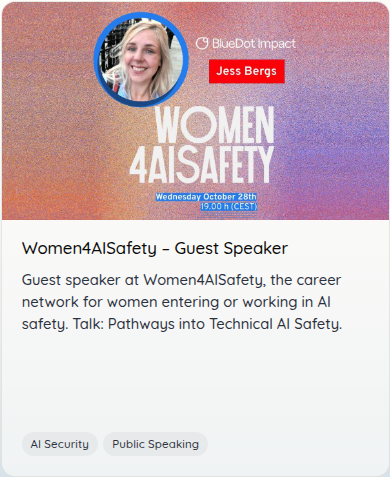
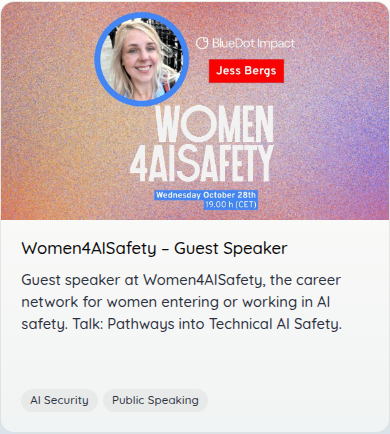
content: Women4AISafety tile uses the event template's own gradient background (#76)
Rebuilds the tile from the organiser's deck template instead of a
screenshot of the LinkedIn post: the template's 1920x1080 speckled
gradient is the 16:9 background, unstretched, and the portrait, logos,
name badge, wordmark and date lines are lifted off the square cover and
placed on it with the same margins as before. No more synthesised
background extension at the sides.

make_tile_from_template.py renders the cover with LibreOffice on white
and on black and takes the difference as alpha; it reconstructs the
portrait's circular crop and the blue date highlights, which LibreOffice
does not draw from the Google Slides export. The template itself stays
outside the repo. Candidate C is the live tile; A and B are kept for
comparison. Screenshot of the card refreshed.

diff --git a/docs/assets/women4aisafety-tile-candidates/make_tile_from_template.py b/docs/assets/women4aisafety-tile-candidates/make_tile_from_template.py
@@ -1,0 +1,216 @@
+#!/usr/bin/env python3
+"""Build the Women4AISafety tile from the organiser's deck template.
+
+usage: uv run --with pillow --with numpy python -I make_tile_from_template.py <template.odp>
+
+The template's cover slide is the square event graphic: a 1920x1080 speckled
+gradient PNG stretched onto the square as the page background, with the
+portrait in its blue disc, the BlueDot Impact logo, the name badge, the
+WOMEN4AISAFETY wordmark and the date lines as separate shapes on top. The tile
+is 16:9, so the gradient is used unstretched as the tile background and the
+shapes are lifted off the square and placed on it.
+
+To lift them, the cover is rendered twice with LibreOffice, on a flat white and
+on a flat black page background; the difference between the two renders gives
+the exact alpha of every shape, anti-aliased edges included. Two things the
+Google Slides export carries are not drawn by LibreOffice, so they are
+reconstructed: the portrait's circular crop (the square image frame becomes an
+ellipse filled with the portrait) and the blue highlights behind the date
+lines (painted into the lifted layer around the rendered text). The purple
+base strip is dropped, as in candidate A.
+
+The lifted layer is scaled so the blue disc sits MARGIN px below the top edge
+and the date highlight MARGIN px above the bottom edge, and the square's
+centre sits on the tile's centre. The gradient's grain is finer than JPEG
+can keep within SIZE_CAP at a sane quality, so it is softened by BG_SOFTEN px
+after downsampling; the speckle and the gradient both survive.
+
+Needs `soffice` and `pdftoppm` on PATH. Writes C-template-background.jpg here
+and the live tile to public/images/women4aisafety-2026.jpg. The template is
+not part of the repo.
+"""
+import re
+import subprocess
+import sys
+import tempfile
+import zipfile
+from pathlib import Path
+
+import numpy as np
+from PIL import Image, ImageFilter
+
+HERE = Path(__file__).resolve().parent
+OUT_W, OUT_H = 1200, 675
+SIZE_CAP = 150_000
+MARGIN = 31  # tile rows above the blue disc and below the date highlight (as in candidate A)
+RENDER_DPI = 144  # the 31.75 cm square renders at 1800 px
+HILITE = (0x42, 0x85, 0xF4)  # the blue of the disc, used for the date highlights
+HILITE_PAD_X, HILITE_PAD_Y = 16, 13  # highlight padding around the date text, in render px
+BG_SOFTEN = 0.8  # Gaussian radius on the downsampled gradient; its grain is too fine to fit SIZE_CAP unsoftened
+LIVE = "C-template-background.jpg"
+
+
+def save_capped(img, path, cap=SIZE_CAP):
+    q = 88
+    for q in range(88, 50, -2):
+        img.save(path, "JPEG", quality=q, optimize=True, progressive=True)
+        if path.stat().st_size <= cap:
+            break
+    print(f"{path.name}: {path.stat().st_size // 1000} KB at quality {q}")
+
+
+def keyed_copy(src_dir, out_odp, colour):
+    """Write a copy of the unpacked template whose cover has a flat `colour` background,
+    a circular portrait and no base strip."""
+    styles = (src_dir / "styles.xml").read_text(encoding="utf-8")
+    content = (src_dir / "content.xml").read_text(encoding="utf-8")
+    page_w = float(re.search(r'fo:page-width="([\d.]+)cm"', styles.split("<style:page-layout ")[-1]).group(1))
+    page = re.search(r"<draw:page .*?</draw:page>", content, flags=re.S).group(0)
+    style = re.search(r'draw:style-name="(dp\d+)"', page).group(1)
+
+    keyed = re.sub(
+        rf'(<style:style style:name="{style}"[^>]*>.*?)draw:fill="bitmap" draw:fill-image-name="[^"]*" style:repeat="stretch"',
+        rf'\1draw:fill="solid" draw:fill-color="{colour}"', content, count=1, flags=re.S)
+    assert keyed != content, "cover background style not found"
+
+    def drop_strip(m):  # full-width shapes are the base strip
+        w = float(re.search(r'svg:width="([\d.]+)cm"', m.group(0)).group(1))
+        return "" if w >= page_w - 0.5 else m.group(0)
+    new_page = re.sub(r"<draw:custom-shape .*?</draw:custom-shape>", drop_strip, page, flags=re.S)
+
+    # The portrait: a square image frame in the export, a circle in the original. Replace the frame
+    # with an ellipse of the same box, filled with the image (clipped to the ellipse).
+    photo = re.search(r'<draw:frame [^>]*>\s*<draw:image xlink:href="(Pictures/[^"]+\.jpe?g)".*?</draw:frame>',
+                      new_page, flags=re.S)
+    assert photo, "portrait frame not found"
+    geo = " ".join(re.findall(r'svg:(?:width|height|x|y)="[^"]+"', photo.group(0)))
+    new_page = new_page.replace(photo.group(0),
+                                f'<draw:ellipse draw:style-name="tilePhoto" draw:layer="layout" {geo}><text:p/></draw:ellipse>')
+    keyed = keyed.replace(page, new_page)
+    keyed = keyed.replace("</office:automatic-styles>",
+                          '<style:style style:name="tilePhoto" style:family="graphic"><style:graphic-properties '
+                          'draw:stroke="none" draw:fill="bitmap" draw:fill-image-name="tilePortrait" style:repeat="stretch"/>'
+                          "</style:style></office:automatic-styles>", 1)
+    styles = styles.replace("<draw:fill-image ",
+                            f'<draw:fill-image draw:name="tilePortrait" xlink:href="{photo.group(1)}" xlink:type="simple" '
+                            'xlink:show="embed" xlink:actuate="onLoad"/><draw:fill-image ', 1)
+
+    with zipfile.ZipFile(out_odp, "w") as z:
+        z.write(src_dir / "mimetype", "mimetype", compress_type=zipfile.ZIP_STORED)
+        for p in sorted(src_dir.rglob("*")):
+            rel = p.relative_to(src_dir).as_posix()
+            if p.is_dir() or rel == "mimetype":
+                continue
+            if rel == "content.xml":
+                z.writestr(rel, keyed, compress_type=zipfile.ZIP_DEFLATED)
+            elif rel == "styles.xml":
+                z.writestr(rel, styles, compress_type=zipfile.ZIP_DEFLATED)
+            else:
+                z.write(p, rel, compress_type=zipfile.ZIP_DEFLATED)
+
+
+def render_cover(odp, work):
+    """Rasterise the first slide of `odp` with LibreOffice; returns an RGB image."""
+    profile = work / "lo-profile"
+    subprocess.run(["soffice", "--headless", f"-env:UserInstallation={profile.as_uri()}",
+                    "--convert-to", "pdf", "--outdir", str(work), str(odp)],
+                   check=True, capture_output=True, timeout=180)
+    pdf = work / (odp.stem + ".pdf")
+    subprocess.run(["pdftoppm", "-r", str(RENDER_DPI), "-f", "1", "-l", "1", "-png", str(pdf), str(work / odp.stem)],
+                   check=True, capture_output=True, timeout=120)
+    png = next(work.glob(odp.stem + "-*.png"))
+    return Image.open(png).convert("RGB")
+
+
+def lift_layer(on_white, on_black):
+    """RGBA array of the shapes: alpha from the white/black difference, colour un-premultiplied from the black render."""
+    w = np.asarray(on_white, dtype=np.float32)
+    b = np.asarray(on_black, dtype=np.float32)
+    alpha = np.clip(1.0 - (w - b).mean(axis=2) / 255.0, 0.0, 1.0)
+    safe = np.where(alpha > 1e-3, alpha, 1.0)[..., None]
+    colour = np.clip(b / safe, 0, 255)
+    colour[alpha < 1e-3] = 0
+    return np.dstack([colour, alpha[..., None] * 255.0])
+
+
+def date_lines(rgba, y_from):
+    """Row runs of the date lines: the text runs below `y_from`, each as (top, bottom, left, right)."""
+    present = rgba[..., 3] > 8
+    rows = present[y_from:].any(axis=1)
+    runs, start = [], None
+    for i, r in enumerate(rows):
+        if r and start is None:
+            start = i
+        elif not r and start is not None:
+            runs.append((start, i))
+            start = None
+    if start is not None:
+        runs.append((start, len(rows)))
+    out = []
+    for a, b in runs:
+        cols = np.where(present[y_from + a:y_from + b].any(axis=0))[0]
+        out.append((y_from + a, y_from + b, int(cols[0]), int(cols[-1]) + 1))
+    return out
+
+
+def paint_highlights(rgba, lines):
+    """Solid HILITE boxes behind each date line: right-aligned to the longest line, touching each other."""
+    right = max(r for _, _, _, r in lines) + HILITE_PAD_X
+    edges = [lines[0][0] - HILITE_PAD_Y]
+    for (_, b0, _, _), (t1, _, _, _) in zip(lines, lines[1:]):
+        edges.append((b0 + t1) // 2)
+    edges.append(lines[-1][1] + HILITE_PAD_Y)
+    blue = np.array(HILITE, dtype=np.float32)
+    for (y0, y1), (_, _, left, _) in zip(zip(edges, edges[1:]), lines):
+        box = rgba[y0:y1, left - HILITE_PAD_X:right]
+        a = box[..., 3:4] / 255.0
+        box[..., :3] = box[..., :3] * a + blue * (1.0 - a)
+        box[..., 3] = 255.0
+    return rgba
+
+
+def main():
+    template = Path(sys.argv[1]).resolve()
+    with tempfile.TemporaryDirectory() as tmp:
+        work = Path(tmp)
+        src = work / "template"
+        with zipfile.ZipFile(template) as z:
+            z.extractall(src)
+        styles = (src / "styles.xml").read_text(encoding="utf-8")
+        bg_name = re.search(r'<draw:fill-image [^>]*xlink:href="(Pictures/[^"]+)"', styles).group(1)
+        background = (Image.open(src / bg_name).convert("RGB").resize((OUT_W, OUT_H), Image.LANCZOS)
+                      .filter(ImageFilter.GaussianBlur(BG_SOFTEN)))
+        print(f"background {bg_name} -> {OUT_W}x{OUT_H}")
+
+        renders = {}
+        for name, colour in (("white", "#ffffff"), ("black", "#000000")):
+            keyed_copy(src, work / f"{name}.odp", colour)
+            renders[name] = render_cover(work / f"{name}.odp", work)
+    rgba = lift_layer(renders["white"], renders["black"])
+    side = rgba.shape[0]
+
+    # The date lines are the shape runs in the bottom fifth, below the wordmark.
+    lines = [ln for ln in date_lines(rgba, int(side * 0.8)) if ln[1] - ln[0] > 10][-2:]
+    assert len(lines) == 2, f"expected two date lines, found {lines}"
+    print("date lines at rows", [(t, b) for t, b, _, _ in lines])
+    rgba = paint_highlights(rgba, lines)
+    layer = Image.fromarray(rgba.astype(np.uint8), "RGBA")
+
+    alpha = rgba[..., 3]
+    rows = np.where(alpha.max(axis=1) > 8)[0]
+    top, bottom = int(rows[0]), int(rows[-1]) + 1
+    scale = (OUT_H - 2 * MARGIN) / (bottom - top)
+    size = (round(layer.width * scale), round(layer.height * scale))
+    layer = layer.resize(size, Image.LANCZOS)
+    x = round(OUT_W / 2 - size[0] / 2)
+    y = round(MARGIN - top * scale)
+    print(f"shapes span rows {top}-{bottom} of {side}; scale {scale:.4f}; placed at ({x}, {y})")
+
+    tile = background.copy()
+    tile.paste(layer, (x, y), layer)
+    save_capped(tile, HERE / LIVE)
+    save_capped(tile, HERE.parents[2] / "public/images/women4aisafety-2026.jpg")
+
+
+if __name__ == "__main__":
+    main()

diff --git a/docs/assets/women4aisafety-tile-candidates/README.md b/docs/assets/women4aisafety-tile-candidates/README.md
@@ -1,31 +1,46 @@
 # Women4AISafety tile — candidates
 
-The live tile (`public/images/women4aisafety-2026.jpg`) uses variant **A**: the
-event graphic from the Women4AISafety LinkedIn post (28 October 2026 online
-session) with its speckled gradient background extended to fill 16:9. The
-purple base strip is dropped, and the content gets equal background margins:
-the distance from the portrait ring to the top edge equals the distance from
-the date line to the bottom edge.
+The live tile (`public/images/women4aisafety-2026.jpg`) is candidate **C**: the
+event graphic rebuilt from the organiser's deck template, so that the tile's
+16:9 background is the template's own 1920x1080 speckled gradient rather than
+an extension synthesised from the square graphic. The portrait in its blue
+disc, the BlueDot Impact logo, the name badge, the WOMEN4AISAFETY wordmark and
+the date lines are lifted off the template's square cover and placed on that
+background with the same margins as candidate A: equal distance from the disc
+to the top edge and from the date line to the bottom edge, the purple base
+strip dropped.
 
-The source graphic is square. Sideways, the extension copies random pixels
-from content-free slivers at the left and right edges (keeping the top-bottom
-gradient); above and below, from content-free bands at the top and just under
-the date line (keeping the left-right gradient). Each copied pixel comes from
-within a few rows or columns of its own position, so there is no seam or
-banding. Earlier variants that put the W4AIS wordmark on a cream panel beside
-the graphic were dropped: the wordmark appeared twice.
+The template is a Google Slides export, and two of its features are not drawn
+by LibreOffice, which `make_tile_from_template.py` uses to render the cover:
+the portrait's circular crop and the blue highlights behind the date lines.
+The script reconstructs both (an ellipse filled with the portrait; highlight
+boxes painted around the rendered text). The cover is rendered on a white and
+on a black page background and the difference gives the exact alpha of every
+shape, so the lift has no fringes. The gradient's grain is finer than JPEG can
+keep under the size cap, so the downsampled background is softened by 0.8 px.
+
+Candidates A and B were built earlier from a screenshot of the LinkedIn post
+by `make_tiles.py`, which extends the square graphic's background sideways and
+vertically by copying content-free blocks of it. They are kept for comparison.
 
 ## The candidates (all 1200x675, capped at 150 KB)
 
-- `A-no-strip.jpg` — **live tile.** No purple strip, equal top and bottom margins
-- `B-strip-spaced.jpg` — purple strip kept, with extra background between the date line and the strip
+- `C-template-background.jpg` — **live tile.** Template background, lifted shapes
+- `A-no-strip.jpg` — synthesised background, no purple strip, equal top and bottom margins
+- `B-strip-spaced.jpg` — synthesised background, purple strip kept, extra background between the date line and the strip
 
 ## Regenerating
 
 ```bash
+# C (live): from the organiser's deck template, which is not part of the repo
+uv run --with pillow --with numpy python -I make_tile_from_template.py <template.odp>
+
+# A and B: from a screenshot of the LinkedIn post
 uv run --with pillow python -I make_tiles.py <screenshot-of-the-linkedin-post.png>
 ```
 
-`GRAPHIC` in the script is the graphic's box inside the 1142x1432 screenshot;
-`GAP` and `STRIP_GAP` set the margins. The ring, the date line and the strip
-are located automatically. Nothing in this folder is served by the site.
+`make_tile_from_template.py` needs `soffice` and `pdftoppm` on PATH. `MARGIN`
+sets the margins, `HILITE_PAD_*` the highlight padding, `BG_SOFTEN` the
+background softening. In `make_tiles.py`, `GRAPHIC` is the graphic's box inside
+the 1142x1432 screenshot and `GAP` / `STRIP_GAP` set the margins. Nothing in
+this folder is served by the site.
